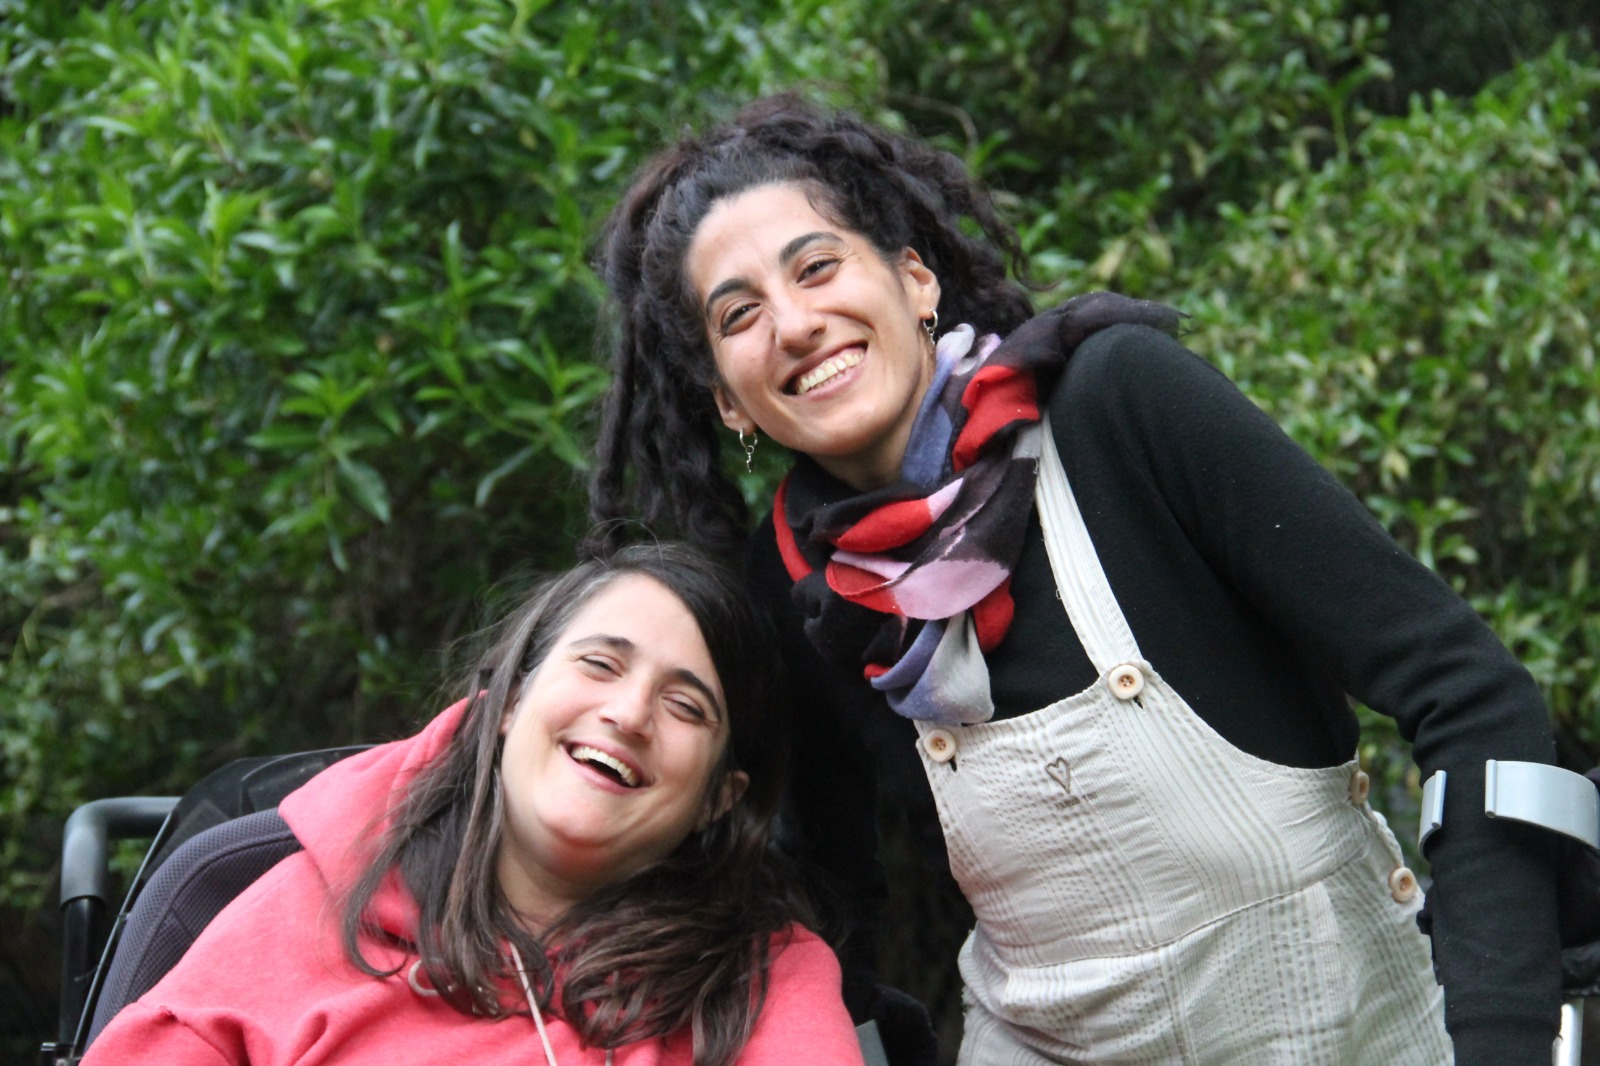
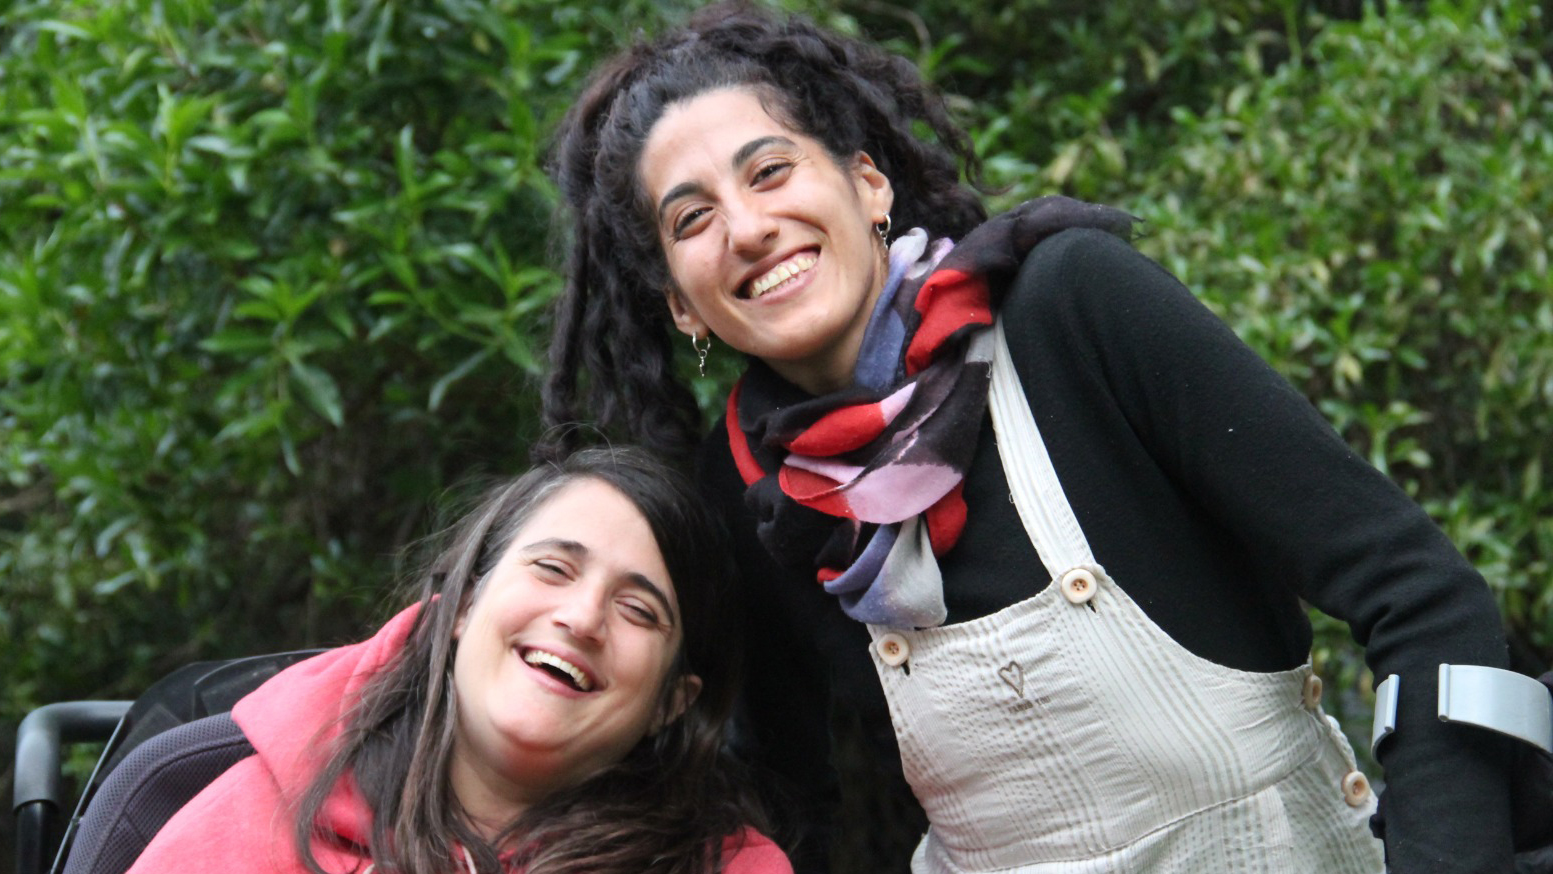
Responsive listo - Faltan textos originales Conocenos

diff --git a/css/cssConocenos.css b/css/cssConocenos.css
@@ -13,43 +13,35 @@
   font-size: large;
 }
 
-.PresentacionConocenos{
+.PresentacionConocenos {
+  padding: 1rem;
   border: 4px solid #cf233a;
   overflow-wrap: break-word;
- /*  display: flex;
-  padding: 1rem;
-  margin: 1rem; 
-  font-family: "Lato";
-  color:blue;
-  width: 90vw;
-*/
-  } 
- 
-.CajaTextosConocenos{
+  margin-bottom: 1rem;
+    color:blue;
+ }
 
-  border: 4px solid #13094d;
-  /* 
- display: flex;
+.CajaTextosConocenos {
+  display: flex;
   flex-direction: column;
-  padding: 2rem;
-  width: 90vw;
-} */
+  border: 4px solid #13094d;
+    
+} 
 
-}
-/* .TextoConocenos {
+.TextoConocenos {
   padding: 1rem;
-  margin: 1rem;
-  font-family: "Lato";
-  color: red;
-  text-align: left;
-  border: 4px solid #860516;
   overflow-wrap: break-word;
+  border: 4px solid #860516;
+  flex-direction: column;
   text-align: left;
-  width: 90vw;
+}
 
-} */
-
-
+.AgradecimientosConocenos{
+  padding: 1rem;
+  border: 4px solid #68671c;
+  overflow-wrap: break-word;
+  margin-top: 1rem;
+}
 
 /* 
 @media screen and (min-width: 600px) {
@@ -77,21 +69,11 @@
   span {
     color: rgb(255, 255, 255);
   }
-  
-  .CajaTextosConocenos{
+
+  .CajaTextosConocenos {
     display: flex;
-     flex-direction: row;
-    
-    /* 
-     border: 4px solid #13094d;
-     padding: 2rem;
-     width: 90vw;
-     
-     */
-    } 
-
-
-
+    flex-direction: row;
+  }
 
   nav {
     background-color: rgb(255, 255, 255);

diff --git a/pages/Conocenos.html b/pages/Conocenos.html
@@ -32,13 +32,18 @@
     </header>
 
     <main>
-      <!-- <img src="../images/BarracudasConocenos.jpg" class="IMGConocenos" /> -->
+      <img src="../images/BarracudasConocenos.jpg" class="IMGConocenos" />
+      
       <h1 class="TituloConocenos">Somos Yesi & Euge</h1>
+
       <p class="PresentacionConocenos">
         Lorem ipsum dolor sit amet consectetur, adipisicing elit. Minus
         repellendus dolores soluta vel sapiente eligendi facilis doloribus
+        necessitatibus tempora exercitationem. Minus
+        repellendus dolores soluta vel sapiente eligendi facilis doloribus
         necessitatibus tempora exercitationem. 
       </p>
+
       <div class="CajaTextosConocenos">
         <section class="TextoConocenos">
           <p>
@@ -82,6 +87,14 @@
           </p>
         </section>
       </div>
+
+      <p class="AgradecimientosConocenos">
+        Lorem ipsum dolor sit amet consectetur, adipisicing elit. Minus
+        repellendus dolores soluta vel sapiente eligendi facilis doloribus
+        necessitatibus tempora exercitationem. Minus
+        repellendus dolores soluta vel sapiente eligendi facilis doloribus
+        necessitatibus tempora exercitationem. 
+      </p>
     </main>
 
     <footer>
